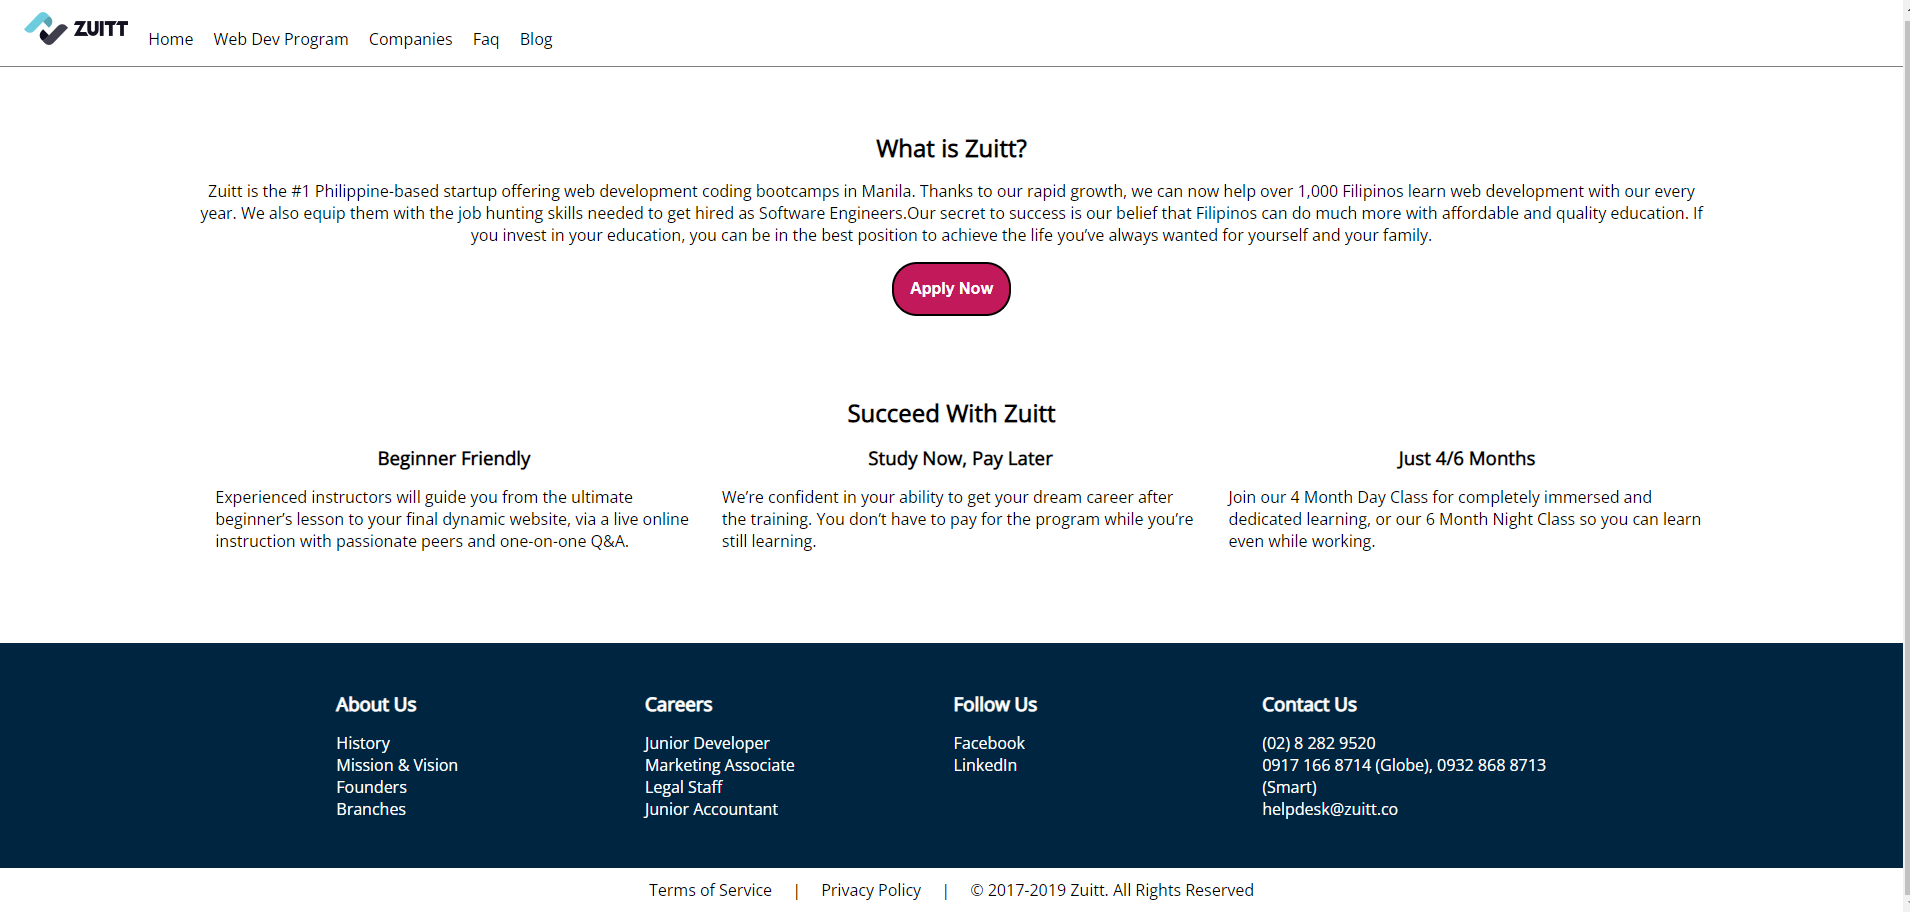
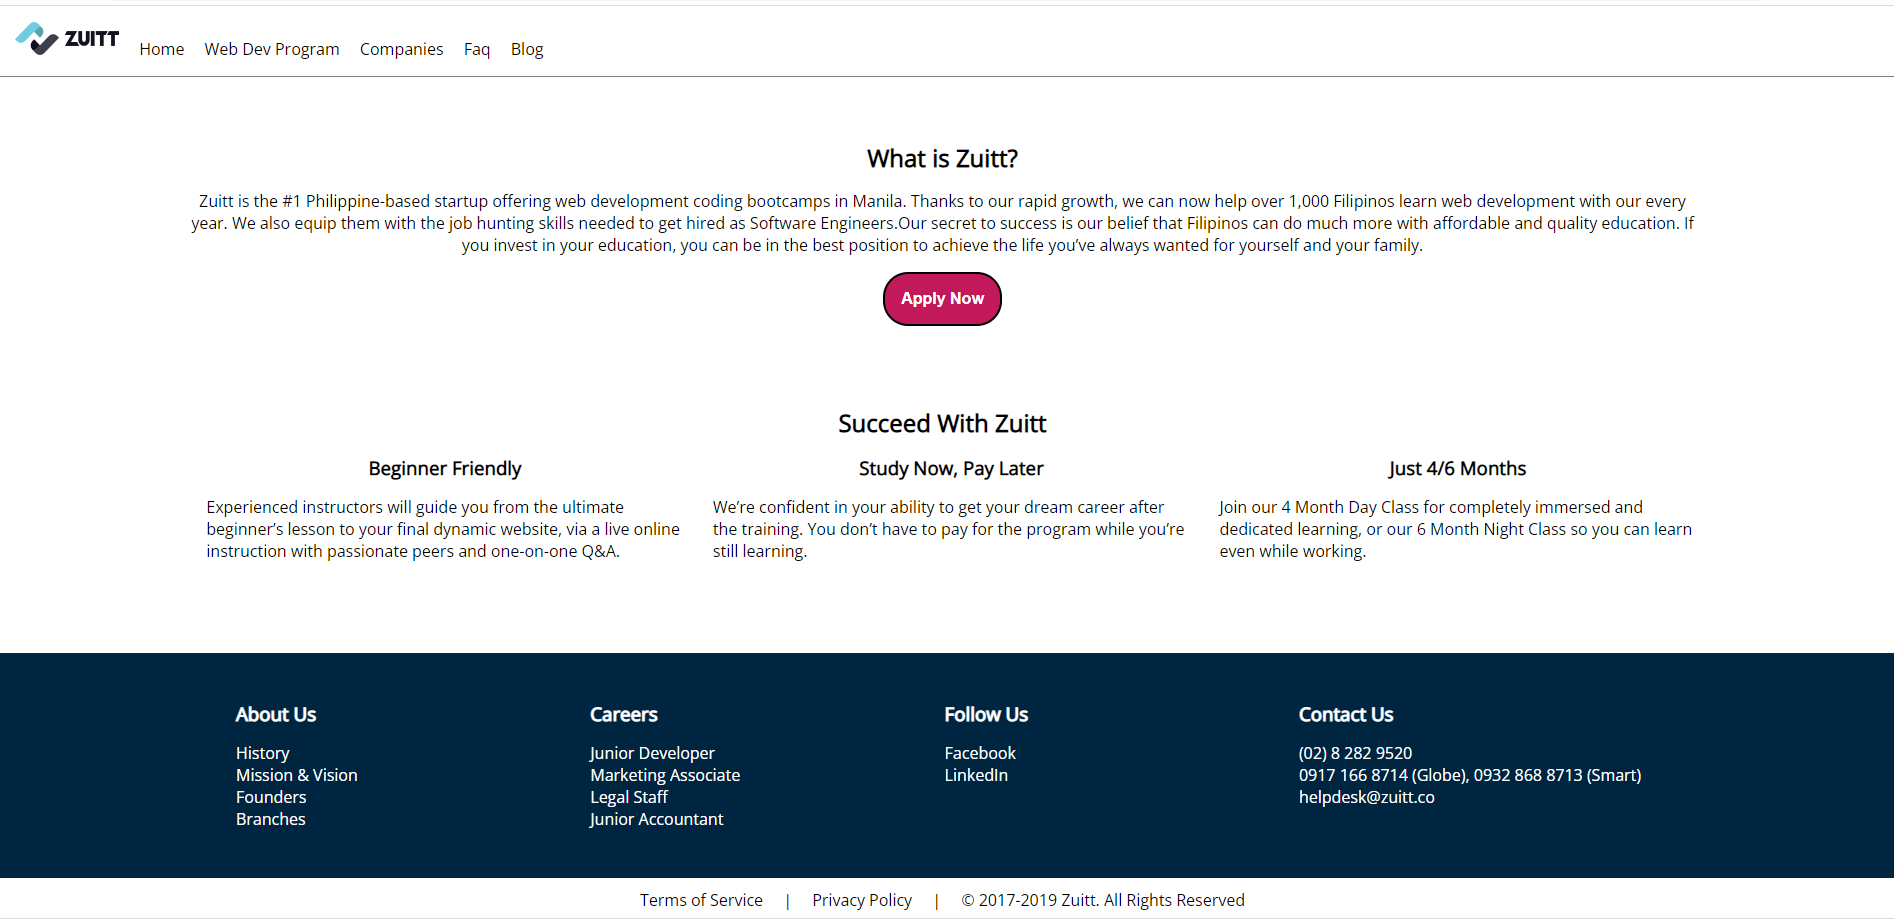
Add activity code

diff --git a/css/index.css b/css/index.css
@@ -86,7 +86,7 @@ footer span{
 
 #pre-footer div{
 	display:inline-block;
-	width: 20%;
+	width: 23%;
 	vertical-align: top;
 	color: white;
 	text-align: left;
